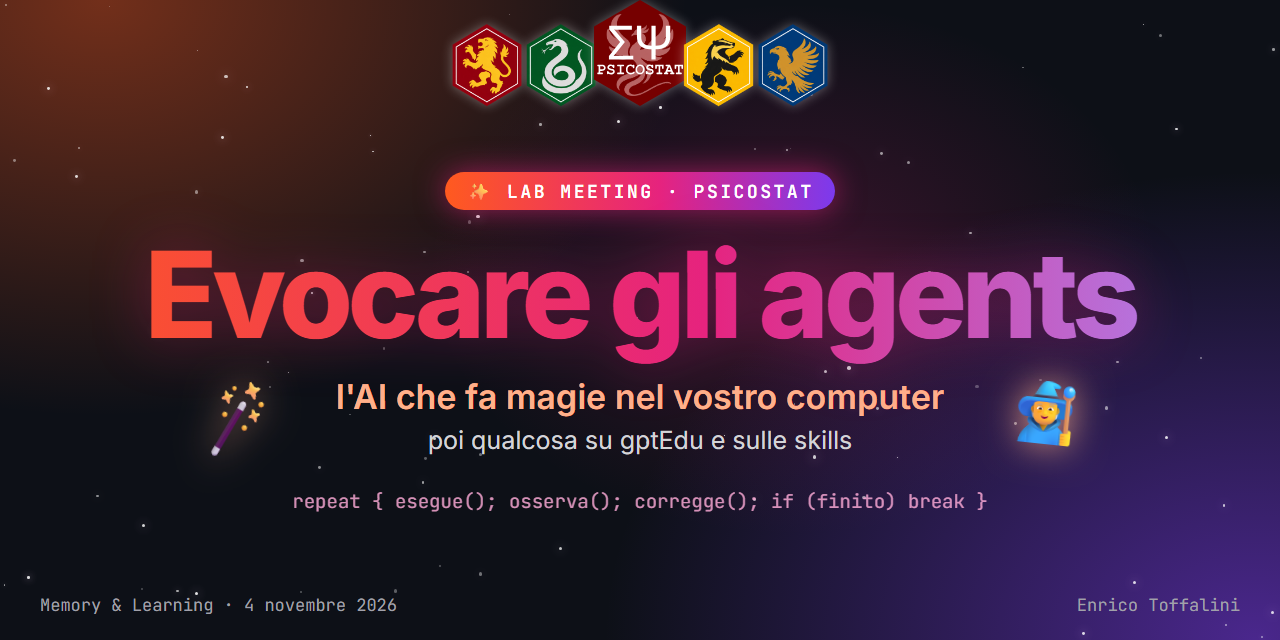
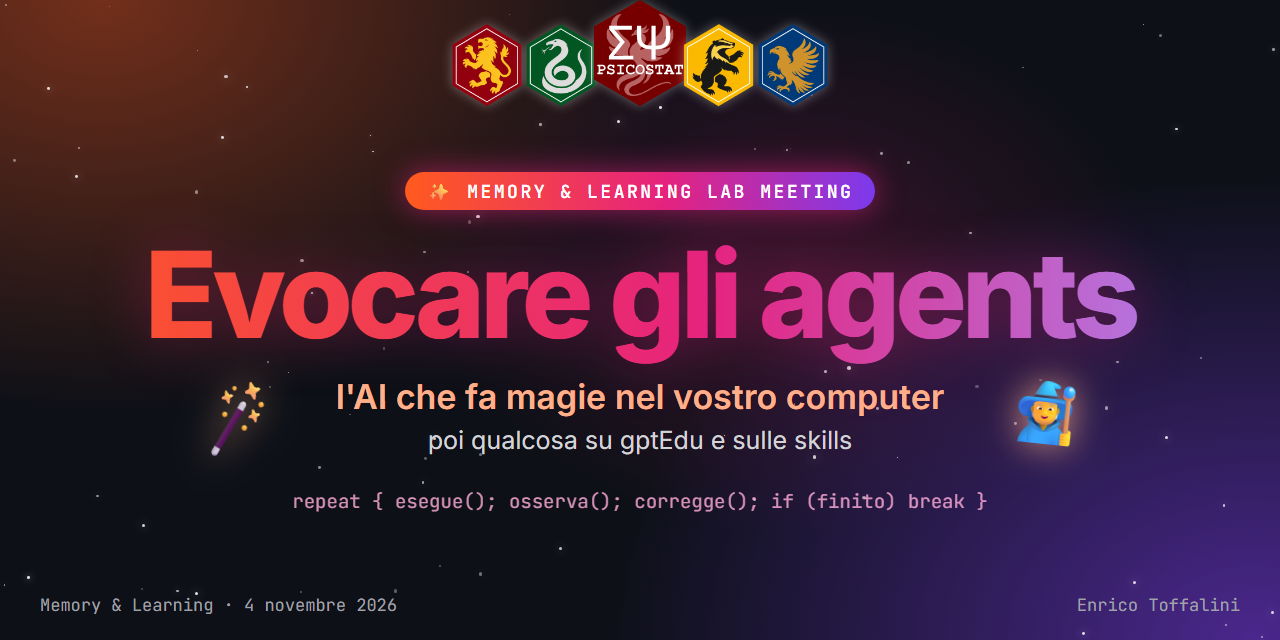
update

Changed region(s): [[0.3125, 0.25, 0.6875, 0.3438]]

diff --git a/R/social-card.html b/R/social-card.html
@@ -44,7 +44,7 @@ h1 {
 <div class="wand" style="left: 190px; top: 372px; transform: rotate(-14deg);">🪄</div>
 <div class="wand" style="right: 190px; top: 366px; transform: rotate(6deg);">🧙</div>
 <div class="main">
-  <span class="pill">✨ Lab meeting · Psicostat</span>
+  <span class="pill">✨ Memory &amp; Learning Lab Meeting</span>
   <h1>Evocare gli agents</h1>
   <div class="sub">l'AI che fa magie nel vostro computer</div>
   <div class="sub2">poi qualcosa su gptEdu e sulle skills</div>
